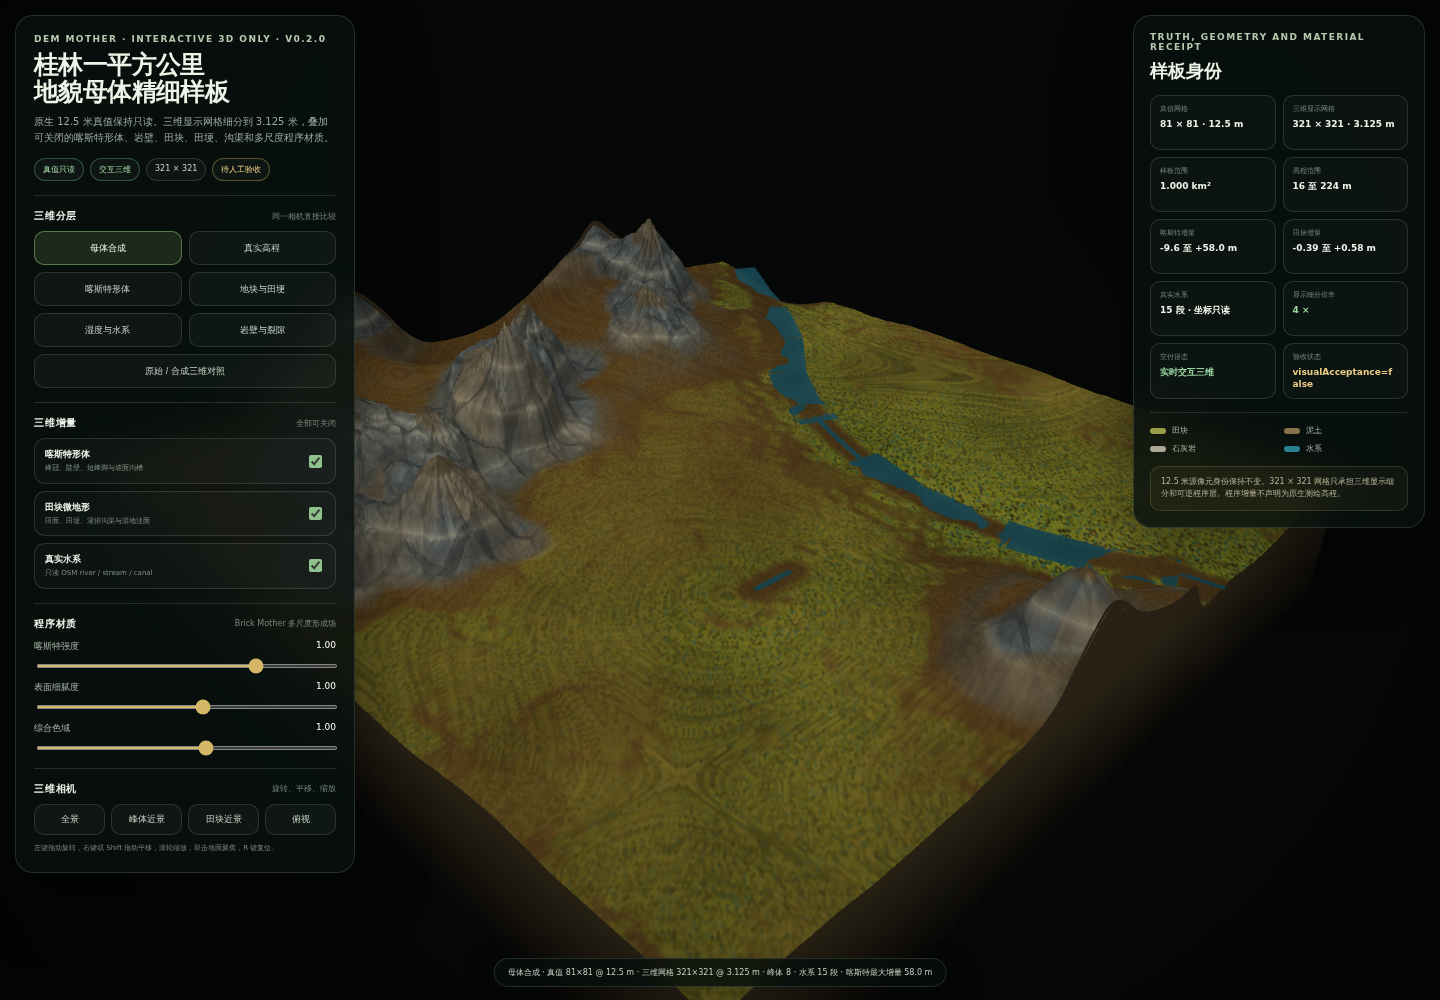
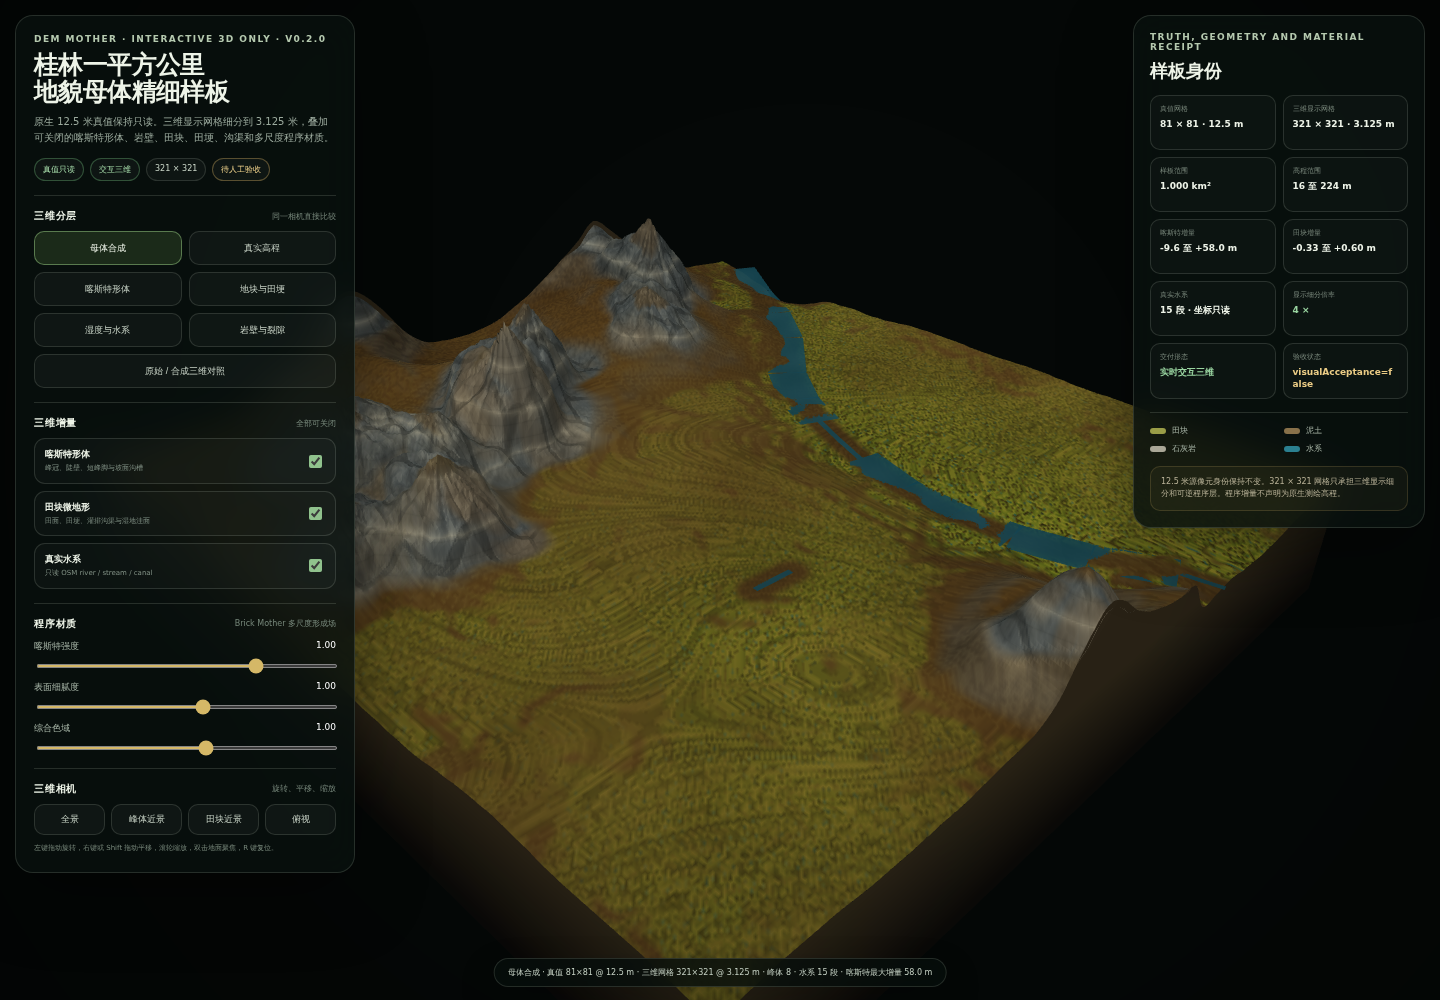
deploy: f1a9dd4586e364727526d4fdd76e381ec158c602

Changed region(s): [[0.5625, 0.403, 0.875, 0.589], [0.5312, 0.62, 0.5625, 0.682], [0.7188, 0.558, 0.75, 0.589]]

diff --git a/guilin-mother-sample-v002/app.js b/guilin-mother-sample-v002/app.js
@@ -806,6 +806,82 @@ setView=function(name){
   }
   state.dirty=true;
 };
+/* v0.2.4 stable warped parcel grammar and material hierarchy cleanup. */
+const TERRAIN_FS_V23=TERRAIN_FS_V22
+  .replace("+(micro-.48)*.035+bund*.22-channel*.18","+(micro-.48)*.018*(.18+.82*rock)+bund*.22-channel*.18")
+  .replace("meso*.42+seed*.38+wet*.20","macro*.20+meso*.12+seed*.54+wet*.14");
+
+setupWebGL=function(){
+  const gl=canvas.getContext('webgl2',{antialias:true,alpha:false,depth:true,powerPreference:'high-performance',preserveDrawingBuffer:true});
+  assert(gl,'当前浏览器未提供 WebGL2');
+  state.gl=gl;
+  state.programs={terrain:createProgram(gl,TERRAIN_VS,TERRAIN_FS_V23),water:createProgram(gl,WATER_VS,WATER_FS),skirt:createProgram(gl,SKIRT_VS,SKIRT_FS)};
+  state.uniforms={
+    terrain:{viewProjection:gl.getUniformLocation(state.programs.terrain,'uViewProjection'),karst:gl.getUniformLocation(state.programs.terrain,'uKarstStrength'),field:gl.getUniformLocation(state.programs.terrain,'uFieldStrength'),mode:gl.getUniformLocation(state.programs.terrain,'uMode'),minimum:gl.getUniformLocation(state.programs.terrain,'uMinElevation'),maximum:gl.getUniformLocation(state.programs.terrain,'uMaxElevation'),detail:gl.getUniformLocation(state.programs.terrain,'uDetailStrength'),color:gl.getUniformLocation(state.programs.terrain,'uColorStrength'),eye:gl.getUniformLocation(state.programs.terrain,'uEye')},
+    water:{viewProjection:gl.getUniformLocation(state.programs.water,'uViewProjection'),eye:gl.getUniformLocation(state.programs.water,'uEye'),time:gl.getUniformLocation(state.programs.water,'uTime')},
+    skirt:{viewProjection:gl.getUniformLocation(state.programs.skirt,'uViewProjection')}
+  };
+  gl.enable(gl.DEPTH_TEST);gl.depthFunc(gl.LEQUAL);gl.enable(gl.CULL_FACE);gl.cullFace(gl.BACK);gl.frontFace(gl.CCW);gl.clearColor(.018,.032,.028,1);
+};
+
+parcelGrammar=function(easting,northing){
+  const warpX=fbm2(easting*.00145,northing*.00145,SEEDS.field+31,4)*39;
+  const warpZ=fbm2(easting*.00145+7.4,northing*.00145-5.1,SEEDS.field+73,4)*39;
+  const angle=.24+fbm2(easting*.00048,northing*.00048,SEEDS.field+91,3)*.18;
+  const ca=Math.cos(angle),sa=Math.sin(angle);
+  const rx=(easting+warpX)*ca+(northing+warpZ)*sa;
+  const rz=-(easting+warpX)*sa+(northing+warpZ)*ca;
+  const cellX=126,cellZ=88;
+  const gx=Math.floor(rx/cellX),gz=Math.floor(rz/cellZ);
+  const fu=fract(rx/cellX),fv=fract(rz/cellZ);
+  const edge=Math.min(fu,1-fu,fv,1-fv);
+  const boundary=1-smoothstep(.018,.095,edge);
+  const fieldSeed=hash2(gx,gz,SEEDS.field+277);
+  const ditchWarp=fbm2(easting*.0036,northing*.0036,SEEDS.field+333,3)*10;
+  const lineA=Math.abs(Math.sin((rx+ditchWarp+fieldSeed*83)*.018));
+  const lineB=Math.abs(Math.sin((rz-ditchWarp-fieldSeed*61)*.022));
+  const ditchA=1-smoothstep(.00,.115,lineA);
+  const ditchB=1-smoothstep(.00,.095,lineB);
+  const channel=fieldSeed>.67?Math.max(ditchA,ditchB*.62):ditchA;
+  return{boundary,fieldSeed,channel};
+};
+
+const deriveTerrainFieldsV23=deriveTerrainFields;
+deriveTerrainFields=function(dense,segments){
+  const fields=deriveTerrainFieldsV23(dense,segments);
+  let minimum=Infinity,maximum=-Infinity,paddySum=0,bundSum=0,channelSum=0;
+  for(let row=0;row<RENDER_GRID;row++){
+    for(let column=0;column<RENDER_GRID;column++){
+      const index=row*RENDER_GRID+column;
+      const truth=dense[index];
+      const x=column*RENDER_SPACING-SIDE_M*.5,z=row*RENDER_SPACING-SIDE_M*.5;
+      const easting=CENTER_E+x,northing=CENTER_N-z;
+      const parcel=parcelGrammar(easting,northing);
+      const paddy=fields.paddy[index];
+      const bund=paddy*Math.pow(parcel.boundary,.62);
+      const channel=paddy*parcel.channel*(1-parcel.boundary*.68);
+      const terraceStep=.26+parcel.fieldSeed*.14;
+      const target=Math.round(truth/terraceStep)*terraceStep;
+      const flatten=clamp((target-truth)*.43,-.14,.14);
+      const delta=clamp(paddy*flatten+bund*(.43+parcel.fieldSeed*.20)-channel*(.25+parcel.fieldSeed*.14),-.40,.66);
+      fields.bund[index]=bund;
+      fields.channel[index]=channel;
+      fields.fieldDelta[index]=delta;
+      fields.unitSeed[index]=parcel.fieldSeed;
+      fields.flow[index]=clamp(fields.flow[index]+channel*.44,0,1);
+      fields.enhanced[index]=truth+fields.karstDelta[index]+delta;
+      minimum=Math.min(minimum,delta);maximum=Math.max(maximum,delta);
+      paddySum+=paddy;bundSum+=bund;channelSum+=channel;
+    }
+  }
+  fields.enhancedNormals=buildNormalArray(fields.enhanced);
+  state.fieldRange=[minimum,maximum];
+  state.fieldStats={paddyFraction:paddySum/fields.paddy.length,bundMean:bundSum/fields.bund.length,channelMean:channelSum/fields.channel.length};
+  return fields;
+};
+
+const drawSkirtV24=drawSkirt;
+drawSkirt=function(){if(state.mode===2&&state.camera.distance<760)return;drawSkirtV24();};
 const MODE_NAMES=['母体合成','真实高程','喀斯特形体','地块与田埂','湿度与水系','岩壁与裂隙','原始 / 合成三维对照'];
 const LEGENDS={0:[['#9a9d47','田块'],['#88714a','泥土'],['#aaa797','石灰岩'],['#2b8090','水系']],1:[['#29482d','低地'],['#6f7042','坡地'],['#aaa99b','高地']],2:[['#17221c','低响应'],['#dc9f2d','喀斯特'],['#f3dc79','正增量'],['#397cb2','切削区']],3:[['#1d2518','禁入'],['#a6ad3d','田面'],['#6f421c','田埂'],['#238395','沟渠']],4:[['#36271a','偏干'],['#35685e','湿润'],['#1f91a0','高湿'],['#216896','真实水系']],5:[['#1d2b1d','覆盖面'],['#73746d','裸岩'],['#332219','裂隙'],['#c1ad72','层理']],6:[['#69725b','左侧真值'],['#a0a34d','右侧母体'],['#2b8090','共享水系'] ]};
 function updateLegend(){const root=$('legend');root.innerHTML='';for(const[color,label]of LEGENDS[state.mode])root.insertAdjacentHTML('beforeend',`<div><i style="background:${color}"></i>${label}</div>`);}
